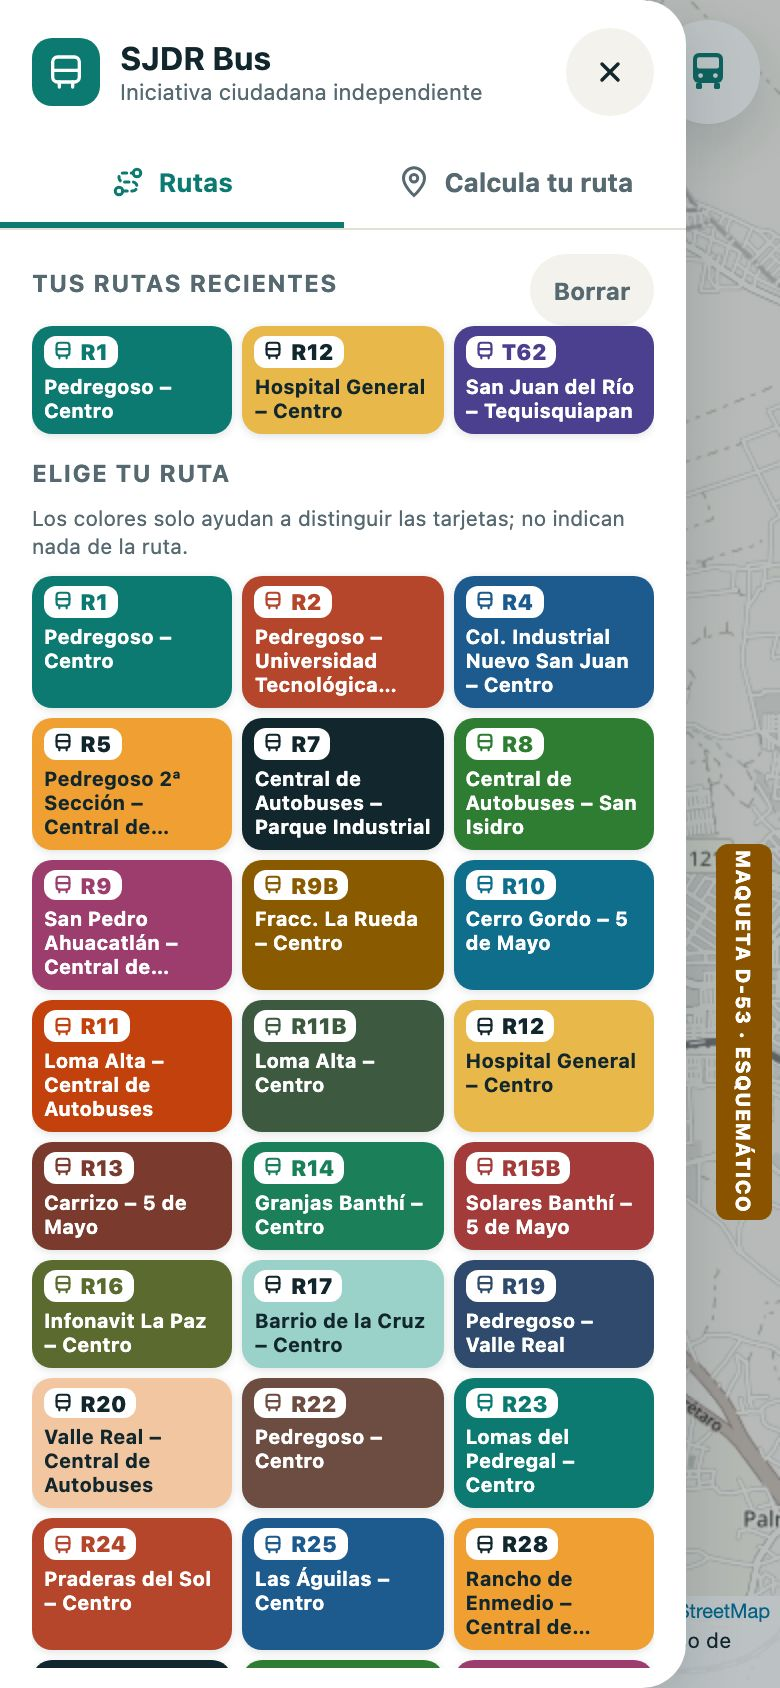
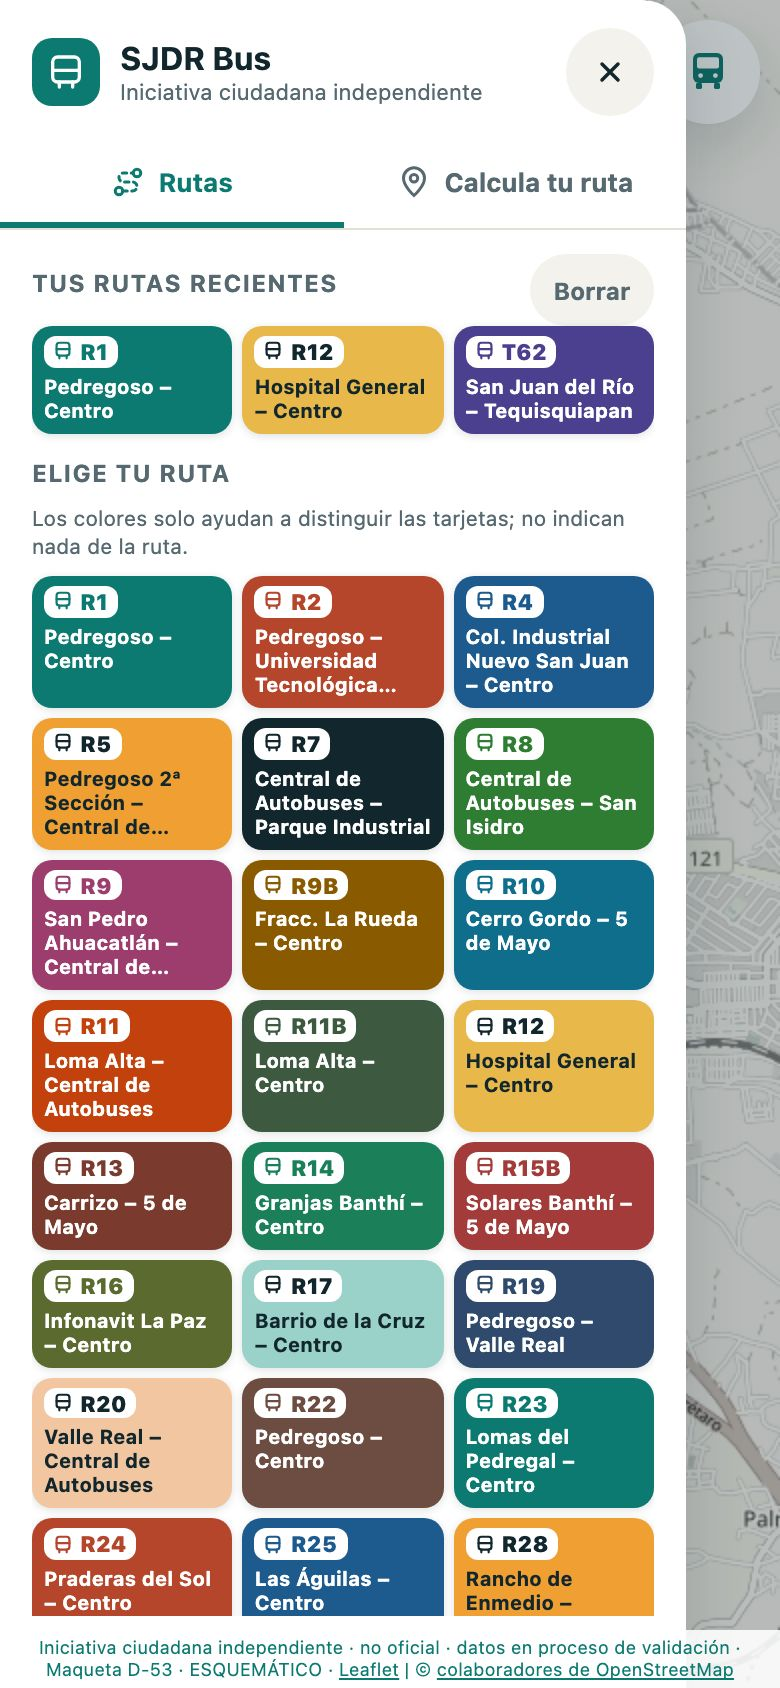
B2 · E-03 · D-53 maqueta, ajustes de Miguel: pie legal discreto en verde, tarjetas cercanas del mismo tamaño, sin cuadro de parada

Changed region(s): [[0.0308, 0.9242, 1.0, 1.0], [0.8923, 0.4929, 1.0, 0.7393]]

diff --git a/docs/maquetas/d53/maqueta.html b/docs/maquetas/d53/maqueta.html
@@ -23,8 +23,6 @@ button { font: inherit; color: inherit; }
 .app { position: fixed; inset: 0; overflow: hidden; }
 .mapa { position: absolute; inset: 0; }
 .leaflet-tile-pane { filter: grayscale(.82) brightness(1.05) contrast(.9) sepia(.08); }
-.leaflet-control-attribution { font-size: 10px; background: rgba(255,255,255,.9) !important; }
-.leaflet-bottom.leaflet-right { bottom: 32px; }
 .leaflet-control-zoom { display: none; }
 
 /* ── Barra de arriba (teléfono): ☰ · «¿A dónde quieres ir?» · paradas ── */
@@ -48,25 +46,22 @@ button { font: inherit; color: inherit; }
 .buscar svg { flex: none; }
 
 .pie {
-  position: absolute; z-index: 900; left: 0; right: 0; bottom: 0; margin: 0; padding: 3px 8px;
-  font-size: 10.5px; line-height: 1.3; background: rgba(255,255,255,.92); text-align: center;
+  /* D-53, ajuste de Miguel (6:49 pm): todo lo legal junto, abajo, chico y en verde:
+     leyenda de iniciativa, sello de maqueta y atribución de OpenStreetMap (regla 6). */
+  position: absolute; z-index: 1250; left: 0; right: 0; bottom: 0; margin: 0; padding: 3px 10px;
+  font-size: 9px; line-height: 1.3; text-align: center; color: var(--primario);
+  background: rgba(255,255,255,.88);
 }
-.sello {
-  position: absolute; z-index: 2000; right: 4px; top: 50%; writing-mode: vertical-rl; padding: 3px 8px; border-radius: 6px;
-  background: #8a5300; color: #fff; font-size: 10px; font-weight: 800; letter-spacing: .05em; pointer-events: none;
-}
-
-/* Aviso flotante (paradas, zonas) */
+.pie a { color: inherit; }
 .aviso-mapa {
-  position: absolute; z-index: 950; left: 50%; transform: translateX(-50%); bottom: 56px;
-  max-width: calc(100% - 24px); padding: 8px 14px; border-radius: 18px; background: var(--tarjeta);
-  box-shadow: var(--sombra); font-size: 12.5px; line-height: 1.35; text-align: center; white-space: nowrap;
+  position: absolute; z-index: 950; left: 50%; transform: translateX(-50%); bottom: 40px;
+  max-width: calc(100% - 24px); padding: 3px 10px; border-radius: 12px; background: rgba(255,255,255,.88);
+  font-size: 11px; line-height: 1.35; text-align: center; white-space: nowrap; color: var(--primario);
 }
-.aviso-mapa b { color: #8a5300; }
 
 /* Ruta elegida con el menú cerrado: chip abajo */
 .chip-ruta {
-  position: absolute; z-index: 950; left: 12px; right: 12px; bottom: 56px;
+  position: absolute; z-index: 950; left: 12px; right: 12px; bottom: 44px;
   display: flex; align-items: center; gap: 10px; padding: 8px 8px 8px 10px;
   border-radius: 18px; background: var(--tarjeta); box-shadow: var(--sombra);
 }
@@ -79,7 +74,7 @@ button { font: inherit; color: inherit; }
 .hoja {
   position: absolute; z-index: 1200; top: 0; left: 0; bottom: 0; width: min(380px, 88vw);
   background: var(--tarjeta); display: flex; flex-direction: column;
-  border-radius: 0 22px 22px 0; box-shadow: var(--sombra); padding: 14px 16px 10px;
+  border-radius: 0 22px 0 0; box-shadow: var(--sombra); padding: 14px 16px 36px;
 }
 .cerrado .hoja, .cerrado .velo { display: none; }
 .hoja-cabeza { flex: none; display: flex; align-items: center; gap: 10px; padding-bottom: 10px; }
@@ -155,14 +150,12 @@ button { font: inherit; color: inherit; }
 }
 .resultado small { display: block; font-weight: 500; font-size: 11.5px; color: var(--suave); }
 .resultado.elegido { background: var(--primario-suave); box-shadow: inset 0 0 0 2px var(--primario); }
-.lista-cerca { display: grid; gap: 5px; }
-.cerca { display: flex; align-items: center; gap: 8px; padding: 6px 8px; border-radius: 12px; background: var(--c); color: var(--ct); }
-.cerca .tarjeta-nombre { font-size: 11.5px; -webkit-line-clamp: 2; }
-.cerca .dist { margin-left: auto; flex: none; font-size: 11px; font-weight: 700; opacity: .95; }
+.rejilla.cerca .tarjeta { height: 74px; }
+.rejilla.cerca .tarjeta-nombre { -webkit-line-clamp: 2; }
+.tarjeta .dist { margin-top: auto; font-size: 10px; font-weight: 700; opacity: .92; }
 .ubicacion { width: 100%; min-height: 46px; border: 0; border-radius: 23px; background: var(--primario); color: #fff; font-size: 14px; font-weight: 700; display: flex; align-items: center; justify-content: center; gap: 8px; }
-.nota { margin: 6px 0 0; font-size: 11.5px; line-height: 1.4; color: var(--suave); }
-.nota b { color: #8a5300; }
-.proximamente { margin-top: 14px; padding: 10px 12px; border-radius: 12px; border: 1.5px dashed var(--borde); font-size: 12px; line-height: 1.4; color: var(--suave); }
+.nota { margin: 6px 0 0; font-size: 10.5px; line-height: 1.4; color: var(--primario); }
+.proximamente { margin: 14px 0 0; font-size: 10.5px; line-height: 1.4; color: var(--primario); }
 
 /* Marcadores */
 .pin { background: none; border: 0; }
@@ -179,16 +172,15 @@ button { font: inherit; color: inherit; }
   .buscar { flex: 0 1 460px; height: 44px; box-shadow: none; font-size: 15px; }
   .redondo.paradas { width: 44px; height: 44px; box-shadow: none; }
   .redondo.paradas.activo { background: var(--acento); color: var(--tinta); }
-  .sello { top: 70px; writing-mode: horizontal-tb; right: 8px; }
-  .pie { right: auto; text-align: left; border-top-right-radius: 6px; }
-  .abierto .pie { right: auto; }
-  .leaflet-bottom.leaflet-right { bottom: 19px; }
+  .pie { text-align: right; font-size: 10px; }
+  .aviso-mapa { bottom: 28px; }
+  .chip-ruta { bottom: 32px; }
   .mapa { top: 60px; }
   .abierto .mapa { left: 400px; }
-  .abierto .pie, .abierto .aviso-mapa, .abierto .chip-ruta { left: 400px; }
+  .abierto .aviso-mapa, .abierto .chip-ruta { left: 400px; }
   .abierto .aviso-mapa { transform: none; left: calc(400px + (100% - 400px) / 2); translate: -50% 0; }
   .velo { display: none !important; }
-  .hoja { top: 60px; width: 400px; border-radius: 0; box-shadow: 1px 0 0 var(--borde); padding: 0 16px 12px; }
+  .hoja { top: 60px; width: 400px; border-radius: 0; box-shadow: 1px 0 0 var(--borde); padding: 0 16px 24px; }
   .hoja-cabeza { display: none; }
   .pestanas button { min-height: 52px; font-size: 14px; }
   .rejilla { grid-template-columns: repeat(4, minmax(0, 1fr)); gap: 6px; }
@@ -205,8 +197,7 @@ button { font: inherit; color: inherit; }
     <button class="buscar" id="buscar"><svg width="20" height="20" viewBox="0 0 24 24" fill="none" stroke="#0d7a72" stroke-width="2.4" stroke-linecap="round"><circle cx="11" cy="11" r="7"/><path d="m20 20-4-4"/></svg>¿A dónde quieres ir?</button>
     <button class="redondo paradas" id="boton-paradas" aria-label="Ver paradas" aria-pressed="false"></button>
   </header>
-  <p class="pie">Iniciativa ciudadana independiente · no oficial · datos en proceso de validación</p>
-  <div class="sello">MAQUETA D-53 · ESQUEMÁTICO</div>
+  <p class="pie">Iniciativa ciudadana independiente · no oficial · datos en proceso de validación · Maqueta D-53 · ESQUEMÁTICO · <a href="https://leafletjs.com">Leaflet</a> | © <a href="https://www.openstreetmap.org/copyright">colaboradores de OpenStreetMap</a></p>
   <div id="flotante"></div>
   <div class="velo"></div>
   <aside class="hoja" aria-label="Menú de SJDR Bus">
@@ -270,7 +261,7 @@ const redondeo = (m) => (m < 1000 ? `${Math.round(m / 10) * 10} m` : `${(m / 100
 
 // ── Mapa real ──
 const escritorio = innerWidth >= 768;
-const mapa = L.map('mapa', { zoomControl: false, attributionControl: true }).setView([20.389, -99.975], escritorio ? 14 : 13);
+const mapa = L.map('mapa', { zoomControl: false, attributionControl: false }).setView([20.389, -99.975], escritorio ? 14 : 13);
 L.tileLayer('https://tile.openstreetmap.org/{z}/{x}/{y}.png', {
   maxZoom: 19, attribution: '© <a href="https://www.openstreetmap.org/copyright">colaboradores de OpenStreetMap</a>',
 }).addTo(mapa);
@@ -353,16 +344,15 @@ function destino() {
     </div>
     <div class="bloque">
       <h3 class="titulo-seccion">Rutas que empiezan o terminan cerca</h3>
-      <div class="lista-cerca">${cerca.map(({ i, d }) => `<div class="cerca" style="${estilo(i)}">${camion(insignia(rutas[i]))}<span class="tarjeta-nombre">${rutas[i].nombre}</span><span class="dist">${d < 50 ? 'ahí' : 'a ' + redondeo(d)}</span></div>`).join('')}</div>
-      <p class="nota"><b>ESTIMADO</b> · distancia en línea recta a la zona de inicio o fin, hasta 1 km.</p>
+      <div class="rejilla cerca">${cerca.map(({ i, d }) => `<button class="tarjeta" style="${estilo(i)}">${camion(insignia(rutas[i]))}<span class="tarjeta-nombre">${rutas[i].nombre}</span><span class="dist">${d < 50 ? 'ahí' : 'a ' + redondeo(d)}</span></button>`).join('')}</div>
+      <p class="nota">ESTIMADO · distancia en línea recta a la zona de inicio o fin, hasta 1 km.</p>
     </div>
     <div class="bloque">
       <h3 class="titulo-seccion">Tu parada más cercana</h3>
       <button class="ubicacion">${BUS('#fff', '#0d7a72')}Usar mi ubicación</button>
-      <button class="resultado" style="margin-top:6px"><span style="color:#0d7a72">${BUS()}</span><span>Parada de OpenStreetMap${parada.nombre && parada.nombre !== 'Parada' ? ` · ${parada.nombre}` : ''}<small>a ${redondeo(parada.d)} en línea recta · POR VERIFICAR EN CAMPO</small></span></button>
-      <p class="nota">En la maqueta se usa una ubicación de muestra (${yo.lugar}). Tu ubicación no sale del teléfono.</p>
+      <p class="nota">Maqueta: con una ubicación de muestra (${yo.lugar}), la parada más cercana queda a ${redondeo(parada.d)} en línea recta y se marca en el mapa · POR VERIFICAR EN CAMPO. Tu ubicación no sale del teléfono.</p>
     </div>
-    <div class="proximamente"><b>Próximamente</b> (fases posteriores): qué ruta tomar desde tu parada, el recorrido de cada ruta y el camino a pie por calles.</div>`;
+    <p class="proximamente">Próximamente (fases posteriores): qué ruta tomar desde tu parada, el recorrido de cada ruta y el camino a pie por calles.</p>`;
 
   mapa.setView([(dest.lat + yo.lat) / 2, (dest.lon + yo.lon) / 2], escritorio ? 14 : 13);
   L.circle([dest.lat, dest.lon], { radius: dest.radio_m, color: '#a8432a', fillColor: '#a8432a', fillOpacity: .14, weight: 2.5, dashArray: '6 6' }).addTo(mapa);
@@ -390,7 +380,7 @@ if (vista === 'paradas') {
   bp.classList.add('activo');
   bp.innerHTML = BUS(escritorio ? '#12262d' : '#fff', escritorio ? '#f0a032' : '#0d7a72');
   paradas.forEach((p) => L.marker([p.lat, p.lon], { icon: icono(PIN, [30, 38], [15, 37]) }).addTo(mapa));
-  flotante.innerHTML = `<div class="aviso-mapa">${paradas.length} paradas de OpenStreetMap · <b>POR VERIFICAR</b></div>`;
+  flotante.innerHTML = `<div class="aviso-mapa">${paradas.length} paradas de OpenStreetMap · por verificar en campo</div>`;
 }
 if (vista === 'destino') {
   abrir();

diff --git a/docs/DECISIONES.md b/docs/DECISIONES.md
@@ -1394,6 +1394,21 @@ Miguel).
     asignada todavía:** el camino a pie por calles hasta la parada (necesita
     calcular rutas en el teléfono sin servicios en vivo, regla 7); se propone
     dentro de B6.
+- **Maqueta (D-54):** `docs/maquetas/d53/maqueta.html`, capturas en
+  `docs/maquetas/d53/capturas/` (6 pantallas a 390 y 1280 px). Miguel: «me
+  gusta, buen trabajo» (20 nov 2026, 6:49 pm), con estos ajustes, ya aplicados
+  en la maqueta:
+  1. **Todo lo legal junto, abajo, chico y en verde** (el verde de la barra):
+     leyenda de iniciativa independiente, «datos en proceso de validación»,
+     sello de maqueta y atribución de Leaflet y OpenStreetMap, en un solo pie.
+     «Discreto, pero anunciado; profesional.»
+  2. **Avisos del mapa discretos** (p. ej. «49 paradas de OpenStreetMap · por
+     verificar en campo»): letra chica, verde, sin recuadro grande.
+  3. **«Rutas que empiezan o terminan cerca»:** tarjetas del mismo tamaño
+     (rectángulo con esquinas redondeadas, como las del menú), compactas; no
+     renglones a lo ancho.
+  4. **Se quita el cuadro «Parada de OpenStreetMap»** (no era botón); la
+     parada se marca en el mapa y la nota va en verde, chica.
 - **Decide:** Miguel. Se construye en el chat siguiente (contexto de este chat
   al 29 %, umbral de aviso 30 %).
 
